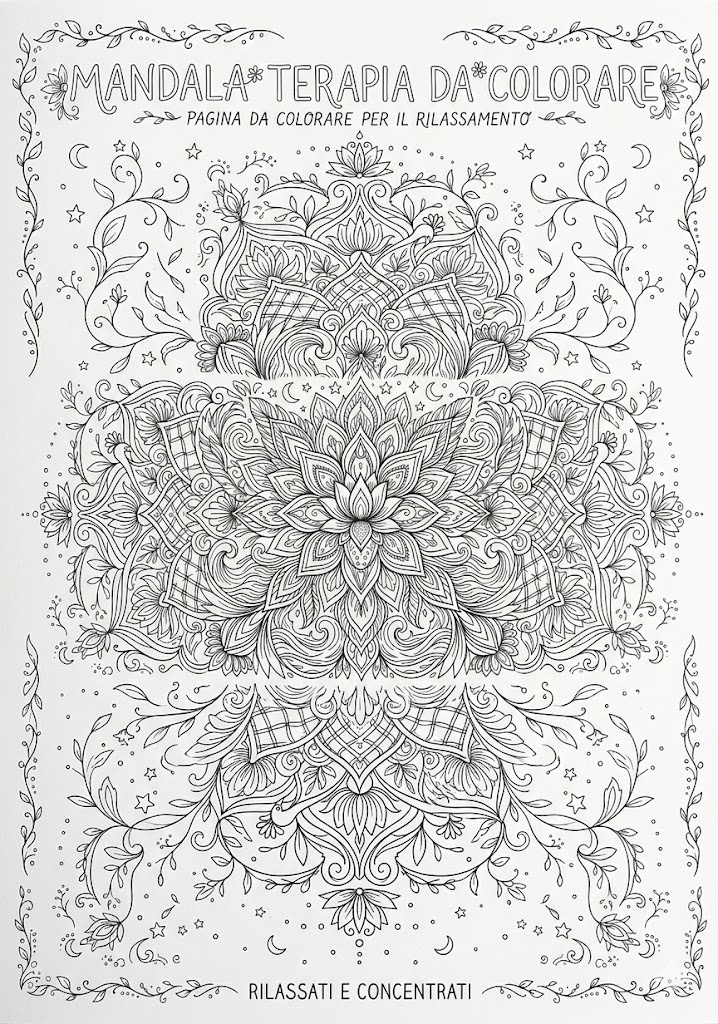
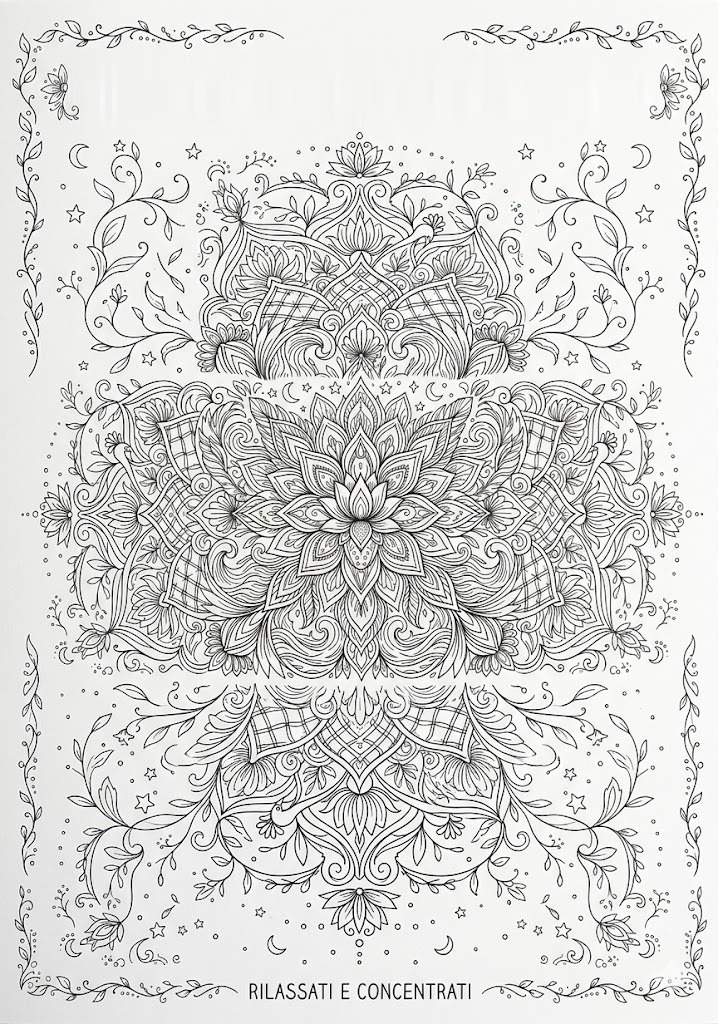
Kit calamità anziani: affermazioni riportate alle fonti, mandala senza «terapia», riservatezza delle carte
Revisione del kit anziani su fonti lette (Cochrane su reminiscenza, stimolazione cognitiva e validazione; NICE CG103 e NG97; NIA; AIFA; DPC; Strategia UE per la preparazione): niente protocolli o terapie dove le prove sono deboli, niente divieti assoluti, classi di farmaci tolte come istruzione, delirium affidato al medico. Immagine del mandala senza la scritta «terapia». Frase sulla riservatezza dei dati nelle carte personali di anziani, neonati, gravidanza e terapie salvavita. Schede RSA 17 e 19 coerenti con le revisioni Cochrane. Data corretta della Strategia UE (26 marzo 2025) e descrizioni dei kit allineate nell'assistente e nella mappa del sito.

Changed region(s): [[0.0919, 0.0625, 0.9192, 0.125]]

diff --git a/static/formazione/kit-calamita-anziani/00-guida-operatori-anziani.html b/static/formazione/kit-calamita-anziani/00-guida-operatori-anziani.html
@@ -3,7 +3,7 @@
 <head>
 <meta charset="utf-8">
 <title>Guida operatori — supporto agli anziani in emergenza — Protezione Civile Genzano</title>
-<meta name="description" content="Guida evidence-based per assistenza agli anziani autonomi e parzialmente autonomi durante e dopo una calamità. Fonti: HelpAge International, WHO mhGAP, Sphere Standards, SIGG, AIP.">
+<meta name="description" content="Guida di orientamento per l'assistenza agli anziani autonomi e parzialmente autonomi durante e dopo una calamità. Non è un protocollo clinico. Riferimenti: HelpAge International, WHO, Sphere, SIGG, AIP.">
 <link rel="stylesheet" href="../kit-calamita-shared/print.css">
 <style>
   .scheda { padding: 12mm 14mm; }
@@ -49,73 +49,74 @@
 
     <p><strong>A chi serve questa guida:</strong> volontari di Protezione Civile, operatori sociali, familiari, vicini di casa, personale comunale che si trovi a interagire con anziani sfollati, evacuati o in difficoltà a seguito di una calamità (terremoto, alluvione, ondata di calore, blackout prolungato, evacuazione preventiva).</p>
 
-    <p>Gli anziani sono una delle categorie più vulnerabili in emergenza, ma <strong>spesso meno visibili dei bambini</strong>: non piangono, non chiedono aiuto, possono apparire "tranquilli" mentre stanno scompensando. Questa guida dà strumenti per riconoscere segnali e agire secondo protocolli evidence-based.</p>
+    <p>Gli anziani sono una delle categorie più vulnerabili in emergenza, ma <strong>spesso meno visibili dei bambini</strong>: possono non chiedere aiuto e apparire "tranquilli" mentre stanno peggiorando. Questa guida dà strumenti per riconoscere i segnali e sapere quando chiamare il 112 o il medico.</p>
 
     <h2>1. Tre rischi specifici degli anziani in emergenza</h2>
     <h3>Rischio sanitario acuto</h3>
     <ul>
-      <li><strong>Interruzione terapie</strong> — molti anziani assumono 5-10 farmaci/giorno. Saltarne uno può scatenare scompenso cardiaco, crisi diabetica, crisi epilettica, sindrome di astinenza da benzodiazepine.</li>
-      <li><strong>Perdita di ausili</strong> — occhiali, apparecchi acustici, dentiera, deambulatore, carrozzina. Senza, l'anziano diventa <em>de facto</em> con disabilità grave.</li>
-      <li><strong>Disidratazione</strong> — la sensazione di sete diminuisce con l'età. In emergenza con caos di accoglienza, gli anziani spesso non bevono abbastanza.</li>
-      <li><strong>Decubiti</strong> — chi ha mobilità ridotta sviluppa lesioni in poche ore se costretto su sedia/branda non adatta.</li>
+      <li><strong>Interruzione terapie</strong> — molti anziani assumono più farmaci ogni giorno. Interrompere o saltare una terapia può avere conseguenze importanti sulla salute: cosa fare lo decide il medico curante, non il volontario.</li>
+      <li><strong>Perdita di ausili</strong> — occhiali, apparecchi acustici, dentiera, deambulatore, carrozzina. Senza, l'autonomia può ridursi molto.</li>
+      <li><strong>Disidratazione</strong> — la sensazione di sete può ridursi con l'età. In emergenza, tra confusione e cambi di abitudini, gli anziani possono non bere abbastanza.</li>
+      <li><strong>Decubiti</strong> — chi ha mobilità ridotta può sviluppare lesioni della pelle se resta a lungo nella stessa posizione su sedia o branda non adatta.</li>
     </ul>
     <h3>Rischio cognitivo</h3>
     <ul>
-      <li><strong>Delirium da stress acuto</strong> — confusione mentale improvvisa innescata dallo shock dell'evento. Si confonde spesso con demenza pre-esistente, ma è <strong>reversibile</strong> se trattato (riposo, idratazione, riorientamento, ambiente calmo).</li>
-      <li><strong>Peggioramento di demenza pre-esistente</strong> — Alzheimer, demenza vascolare, Parkinson. Il cambio di ambiente è uno dei fattori scatenanti più potenti di scompenso.</li>
+      <li><strong>Delirium</strong> — confusione mentale improvvisa, spesso legata a una causa medica (per esempio un'infezione o la disidratazione) o a un cambio improvviso di ambiente. Si confonde con la demenza, ma può <strong>migliorare</strong> se un medico ne individua e cura la causa.</li>
+      <li><strong>Peggioramento di demenza pre-esistente</strong> — Alzheimer, demenza vascolare e altre forme. Un cambio improvviso di luogo, abitudini o persone può aumentare confusione e agitazione.</li>
       <li><strong>Disorientamento</strong> — non sapere dove ci si trova, che giorno è, chi sono le persone intorno.</li>
     </ul>
     <h3>Rischio psicosociale</h3>
     <ul>
-      <li><strong>Trauma del "rifare tutto a 75 anni"</strong> — sentire che non si avrà tempo di ricostruire. Diverso dal trauma giovanile, ha caratteri di lutto anticipato.</li>
+      <li><strong>Trauma del "rifare tutto a 75 anni"</strong> — sentire che non si avrà tempo di ricostruire. Per alcune persone assume i caratteri di un lutto anticipato.</li>
       <li><strong>Isolamento</strong> — perdita rete familiare/vicini/parrocchia che era ancoraggio quotidiano.</li>
-      <li><strong>Vergogna</strong> — bisogno di aiuto per cose intime (bagno, vestirsi). Molti anziani preferiscono soffrire piuttosto che chiedere.</li>
+      <li><strong>Vergogna</strong> — bisogno di aiuto per cose intime (bagno, vestirsi). Molte persone esitano a chiedere aiuto: offrilo con discrezione.</li>
     </ul>
 
     <h2>2. Come avvicinarsi a un anziano in difficoltà</h2>
     <ul>
       <li><strong>Mettiti alla sua altezza</strong> — siediti, non parlare in piedi sopra di lui.</li>
       <li><strong>Presentati con nome, cognome e ruolo</strong> — <em>"Sono Marco Rossi, volontario della Protezione Civile."</em> Le generazioni anziane danno valore al cognome.</li>
-      <li><strong>Dai del Lei</strong> sempre. Anche se l'anziano dà del tu a te. Il rispetto formale è ancoraggio identitario.</li>
+      <li><strong>Dai del Lei</strong>, salvo diversa preferenza espressa dalla persona, anche se l'anziano dà del tu a te. Il rispetto formale è ancoraggio identitario.</li>
       <li><strong>Parla lentamente, voce ferma e calma</strong>, frasi brevi. Ma <strong>non urlare</strong> e non parlare "da bambino": gli anziani con ipoacusia hanno comunque dignità adulta.</li>
-      <li><strong>Tocca solo se autorizzato</strong> — chiedi prima ("Posso prenderle la mano?").</li>
-      <li><strong>Non interrompere</strong> i racconti del passato. Per molti anziani il <em>raccontare</em> è elaborazione (reminiscence therapy, evidence-based).</li>
+      <li><strong>Tocca solo se autorizzato</strong> — chiedi prima ("Posso prenderle la mano?"), salvo pericolo immediato per la persona.</li>
+      <li><strong>Non interrompere</strong> i racconti del passato, se la situazione lo consente. Per molti anziani il <em>raccontare</em> è un modo di elaborare (vedi punto 5).</li>
     </ul>
 
     <h2>3. Segnali di allarme — quando chiedere supporto medico/psicologico</h2>
     <div class="alert-rossa">
       <strong>Chiama il 112 immediatamente se:</strong>
       <ul>
-        <li>Confusione mentale acuta in chi prima era lucido (sospetto delirium o ictus)</li>
+        <li>Perdita di coscienza o difficoltà a respirare</li>
+        <li>Confusione mentale acuta in chi prima era lucido (sospetto delirium, ictus o colpo di calore)</li>
         <li>Mancato riconoscimento di familiari (sospetto delirium / ictus)</li>
-        <li>Difficoltà a deglutire, parlare biascicato, asimmetria del volto (sospetto ictus — protocollo FAST)</li>
+        <li>Bocca storta, braccio debole, difficoltà a parlare o a deglutire (sospetto ictus — segni FAST)</li>
         <li>Dolore toracico (sospetto cardiopatia)</li>
         <li>Caduta con sospetto trauma cranico o frattura</li>
-        <li>Astinenza acuta da benzodiazepine (tremori, ansia estrema, rischio convulsioni)</li>
+        <li>Tremori forti, ansia estrema o convulsioni, anche dopo l'interruzione di una terapia abituale</li>
       </ul>
     </div>
-    <p>Per situazioni meno urgenti ma da non sottovalutare: <strong>contatto con il medico curante</strong>, <strong>ASL Roma 6 servizio anziani</strong>, <strong>Sportello sociale comunale</strong>.</p>
+    <p>Per situazioni meno urgenti ma da non sottovalutare: <strong>contatto con il medico curante</strong>, <strong>servizi socio-sanitari dell'ASL Roma 6</strong>, <strong>servizi sociali del Comune</strong>.</p>
 
-    <h2>4. Distinguere delirium da demenza (importante!)</h2>
+    <h2>4. Delirium e demenza: un cambiamento improvviso va segnalato</h2>
     <table>
-      <tr><th>Caratteristica</th><th>Delirium (acuto, reversibile)</th><th>Demenza (cronica, progressiva)</th></tr>
+      <tr><th>Caratteristica</th><th>Delirium (acuto, spesso reversibile)</th><th>Demenza (cronica, progressiva)</th></tr>
       <tr><td>Esordio</td><td>Ore o giorni (improvviso)</td><td>Mesi o anni (graduale)</td></tr>
       <tr><td>Attenzione</td><td>Compromessa, fluttuante</td><td>Generalmente preservata fino a fasi tardive</td></tr>
       <tr><td>Coscienza</td><td>Alterata (sonnolenza, agitazione)</td><td>Generalmente lucida</td></tr>
-      <tr><td>Decorso</td><td>Fluttuante (peggio di sera, "sundowning")</td><td>Stabile nelle 24 ore</td></tr>
-      <tr><td>Trattamento</td><td>Rimuovere causa, ambiente calmo, idratare</td><td>Stabilizzare, supporto cognitivo</td></tr>
+      <tr><td>Decorso</td><td>Fluttuante nelle 24 ore</td><td>Più stabile nelle 24 ore (può peggiorare verso sera: "sundowning")</td></tr>
+      <tr><td>Cosa fare</td><td>Chiamare il medico o il 112; intanto voce calma, ambiente tranquillo, spiegargli con gentilezza dove si trova e chi lo assiste</td><td>Parlarne con il medico curante; abitudini e ambiente stabili</td></tr>
     </table>
-    <p>Una persona con demenza pre-esistente <strong>può sviluppare delirium sovrapposto</strong> in emergenza. Se il familiare dice "non è più lui da quando è successo X", sospetta delirium.</p>
+    <p>Una persona con demenza pre-esistente <strong>può sviluppare delirium sovrapposto</strong> in emergenza. Se il familiare dice "non è più lui da quando è successo X", un cambiamento recente va segnalato al medico o, se la persona sta male, al 112.</p>
 
-    <h2>5. Reminiscence therapy — perché funziona</h2>
-    <p>La <strong>reminiscence therapy</strong> (Butler, 1963; rivista Cochrane 2018) è un intervento evidence-based per anziani in trauma: chiedere e ascoltare ricordi positivi della vita passata <strong>riduce sintomi depressivi, migliora autostima e funzionalità cognitiva</strong>. Scheda 4 del kit: 5 prompt strutturati.</p>
-    <p>Funziona perché: (1) recupera il <em>sé continuo</em> minacciato dall'evento; (2) attiva memoria a lungo termine ben preservata anche in demenze iniziali; (3) crea connessione con chi ascolta; (4) restituisce dignità ("io sono stato qualcuno").</p>
+    <h2>5. Reminiscenza — ascoltare i ricordi</h2>
+    <p>La <strong>reminiscenza</strong> (il <em>life review</em> è di Butler, 1963) è l'attività di ripercorrere i ricordi della propria vita con qualcuno che ascolta. Nelle persone con demenza una revisione Cochrane (Woods et al., 2018) riporta benefici <strong>spesso piccoli e non costanti</strong> su qualità di vita, cognizione, comunicazione e umore, senza prove di effetti dannosi. Qui è un momento di ascolto, non una cura. Scheda 4 del kit: 5 spunti guidati.</p>
+    <p>Perché può aiutare (spiegazioni plausibili, non dimostrate dagli studi): (1) ritrova il filo della propria storia, interrotto dall'evento; (2) usa ricordi lontani, spesso meglio conservati; (3) crea connessione con chi ascolta; (4) restituisce dignità ("io sono stato qualcuno").</p>
     <p>Domande utili: <em>"Mi racconti del lavoro che faceva?"</em> · <em>"Com'era il giorno del suo matrimonio?"</em> · <em>"Cosa cucinava la sua mamma?"</em> · <em>"Qual è il viaggio più bello che ricorda?"</em></p>
 
-    <h2>6. Comunicare con chi ha demenza — terapia di validazione (Naomi Feil)</h2>
+    <h2>6. Comunicare con chi ha demenza — approccio di validazione (Naomi Feil)</h2>
     <p>Se l'anziano dice cose <em>oggettivamente errate</em> ("devo andare a prendere mio marito alla stazione" ma il marito è morto da anni):</p>
     <ul>
-      <li><strong>NON correggere</strong> — la realtà oggettiva non è quella che vive lui in quel momento. Correggere lo destabilizza.</li>
+      <li><strong>NON correggere</strong> — la realtà oggettiva non è quella che vive lui in quel momento. Correggere può destabilizzarlo (salvo pericolo immediato).</li>
       <li><strong>NON mentire</strong> — non dire "sì sì, va bene".</li>
       <li><strong>VALIDA l'emozione</strong> — <em>"Vuole tanto bene a suo marito vero? Mi racconta com'era?"</em> Sposta dal fatto all'affetto.</li>
       <li><strong>Riorienta dolcemente</strong> nel tempo presente quando possibile, senza forzare.</li>
@@ -125,7 +126,7 @@
     <ul>
       <li><strong>Carta d'identità di emergenza</strong> (scheda 1): da compilare INSIEME all'anziano. Tienila in una tasca interna del soprabito o nel portafogli.</li>
       <li><strong>Diario medicinali</strong> (scheda 2): controllo visivo quotidiano. Se l'anziano vive solo, qualcuno deve verificarlo a distanza (telefonata serale).</li>
-      <li><strong>Calendario orientativo</strong> (scheda 3): scrivi tu la data ogni mattina. È rituale anti-disorientamento.</li>
+      <li><strong>Calendario orientativo</strong> (scheda 3): scrivi tu la data ogni mattina. Può aiutare a ritrovare l'orientamento.</li>
       <li><strong>Ricordi della vita</strong> (scheda 4): non da fare in fretta. Scegli un momento tranquillo, siedi vicino, ascolta senza commentare.</li>
       <li><strong>Carta dei bisogni CAA</strong> (scheda 5): per chi ha difficoltà comunicative gravi. Mostra la carta, lasciagli indicare.</li>
       <li><strong>Mandala / cruciverba / sudoku</strong> (schede 7-9): stimolazione cognitiva dolce. Mai presentati come "test" o "compito": <em>"Ho qui un mandala carino, le piace l'idea di colorarlo insieme?"</em></li>
@@ -135,7 +136,7 @@
 
   <footer class="scheda-footer">
     <span>Kit Calamità Anziani — Guida operatori</span>
-    <span class="fonti">Fonti: <strong>HelpAge International</strong> Older People in Emergencies · <strong>WHO mhGAP</strong> Intervention Guide for Mental Health in Humanitarian Settings · <strong>Sphere Standards 2018</strong> § Older People · <strong>SIGG</strong> Società Italiana di Gerontologia e Geriatria · <strong>AIP</strong> Associazione Italiana Psicogeriatria · <strong>Butler RN (1963)</strong> The Life Review · <strong>Feil N</strong> The Validation Breakthrough · <strong>Cochrane Review 2018</strong> Reminiscence therapy for dementia · <strong>DPC</strong> linee guida vulnerabili.</span>
+    <span class="fonti">Riferimenti: <strong>HelpAge International</strong> Older People in Emergencies · <strong>WHO/UNHCR</strong> mhGAP Humanitarian Intervention Guide (2015) · <strong>Sphere Handbook 2018</strong> · <strong>SIGG</strong> Società Italiana di Gerontologia e Geriatria · <strong>AIP</strong> Associazione Italiana di Psicogeriatria · <strong>NICE</strong> CG103 (delirium) · <strong>NIA</strong> (National Institute on Aging) agitazione, aggressività e sundowning nell'Alzheimer · <strong>AIFA</strong> «E…state in salute» · <strong>Woods et al., Cochrane 2018</strong> Reminiscence therapy for dementia · <strong>Butler RN (1963)</strong> The Life Review · <strong>Feil N</strong> The Validation Breakthrough (approccio comunicativo: la revisione Cochrane del 2003 di Neal e Barton Wright non trova prove sufficienti di efficacia) · <strong>DPC</strong> indicazioni per l'assistenza alla popolazione. Guida di orientamento, non protocollo clinico: contenuti sanitari da validare con il referente sanitario; per farmaci e terapie, medico di famiglia o farmacista.</span>
     <span>www.protezionecivilegenzano.it</span>
   </footer>
 </article>

diff --git a/static/formazione/kit-calamita-anziani/02-diario-medicinali.html b/static/formazione/kit-calamita-anziani/02-diario-medicinali.html
@@ -23,11 +23,11 @@
     <span class="kit-tag">Anziani · Salute</span>
   </header>
   <h1 class="scheda-title">Diario settimanale dei medicinali</h1>
-  <span class="scheda-eta">Per non saltare nessuna terapia anche in giorni difficili</span>
-  <div class="scheda-istruzione">💊 <strong>Spunta ogni casella</strong> appena prendi il farmaco. Se vivi solo, qualcuno ti chiama la sera per controllare con te.</div>
+  <span class="scheda-eta">Per ricordare le terapie anche in giorni difficili</span>
+  <div class="scheda-istruzione">💊 <strong>Spunta ogni casella</strong> appena prendi il farmaco. Se vivi solo, chiedi a un familiare o a un vicino di chiamarti la sera per controllare con te.</div>
   <section class="scheda-attivita">
     <p style="margin: 0;"><strong>Settimana dal:</strong> ___________ <strong>al:</strong> ___________</p>
-    <p style="margin: 0 0 3mm;"><strong>Farmaci da prendere</strong> (scrivi nomi sotto le X):</p>
+    <p style="margin: 0 0 3mm;"><strong>Farmaci da prendere</strong> (caselle 1, 2, 3 di ogni fascia): 1 ___________ 2 ___________ 3 ___________</p>
     <table class="med">
       <thead>
         <tr><th>GIORNO</th><th>MATTINA</th><th>PRANZO</th><th>SERA</th><th>NOTE / SINTOMI</th></tr>
@@ -42,7 +42,7 @@
         <tr><td>DOMENICA</td><td><div class="check-box"><span></span><span></span><span></span></div></td><td><div class="check-box"><span></span><span></span><span></span></div></td><td><div class="check-box"><span></span><span></span><span></span></div></td><td></td></tr>
       </tbody>
     </table>
-    <p style="font-size: 10pt; color: #c1121f; font-weight: 700; margin-top: 4mm;">⚠ NON sospendere mai farmaci di cuore, pressione, anticoagulanti, antiparkinson, benzodiazepine senza parlare col medico — anche in emergenza.</p>
+    <p style="font-size: 10pt; color: #c1121f; font-weight: 700; margin-top: 4mm;">⚠ Non interrompere né cambiare le terapie da soli, nemmeno in emergenza: se un farmaco manca o non puoi prenderlo, chiedi al medico di famiglia o al farmacista; se stai male, chiama il 112.</p>
   </section>
-  <footer class="scheda-footer"><span>Anziani Scheda 2 — Diario medicinali</span><span class="fonti">L'interruzione della terapia abituale è una causa nota di scompenso negli anziani in politerapia (SIGG — Società Italiana di Gerontologia e Geriatria): da qui l'importanza di un diario aggiornato dei medicinali.</span><span>www.protezionecivilegenzano.it</span></footer>
+  <footer class="scheda-footer"><span>Anziani Scheda 2 — Diario medicinali</span><span class="fonti">Un diario aggiornato dei medicinali aiuta a non dimenticare le terapie abituali e a darne un quadro chiaro a chi soccorre. Da verificare con il medico di famiglia o il farmacista; scheda da validare con il referente sanitario.</span><span>www.protezionecivilegenzano.it</span></footer>
 </article></body></html>

diff --git a/static/formazione/kit-calamita-anziani/04-ricordi-vita.html b/static/formazione/kit-calamita-anziani/04-ricordi-vita.html
@@ -2,7 +2,7 @@
 <html lang="it">
 <head>
 <meta charset="utf-8">
-<title>Scheda 4 — Ricordi della mia vita (reminiscence therapy)</title>
+<title>Scheda 4 — Ricordi della mia vita (reminiscenza)</title>
 <link rel="stylesheet" href="../kit-calamita-shared/print.css">
 <style>
   .scheda { font-size: 13pt; }
@@ -24,11 +24,11 @@
   <header class="scheda-header">
     <svg class="logo" viewBox="0 0 100 100" aria-hidden="true"><rect x="2" y="2" width="96" height="96" fill="none" stroke="#003366" stroke-width="3"/><text x="50" y="58" text-anchor="middle" font-size="32" font-weight="700" fill="#003366">PC</text></svg>
     <div class="brand">Protezione Civile<small>Gruppo Comunale Volontari — Genzano di Roma</small></div>
-    <span class="kit-tag">Anziani · Reminiscence Therapy</span>
+    <span class="kit-tag">Anziani · Reminiscenza</span>
   </header>
   <h1 class="scheda-title">Ricordi della mia vita</h1>
-  <span class="scheda-eta">Reminiscence therapy — racconto di sé</span>
-  <div class="scheda-istruzione">💭 <strong>Scrivi o detta a chi ti assiste</strong>. Raccontare ricordi positivi della propria vita è una <strong>terapia validata</strong> (Cochrane 2018) per stare meglio in momenti difficili.</div>
+  <span class="scheda-eta">Reminiscenza — racconto di sé</span>
+  <div class="scheda-istruzione">💭 <strong>Scrivi o detta a chi ti assiste</strong>. Raccontare ricordi piacevoli della propria vita può <strong>aiutare l'umore</strong> e fare compagnia nei momenti difficili. Non è un compito: scrivi solo ciò che vuoi.</div>
   <section class="scheda-attivita">
     <div class="prompt">
       <div class="prompt-titolo">1. UN RICORDO DELLA MIA INFANZIA</div>
@@ -56,5 +56,5 @@
       <div class="righe"><div></div><div></div></div>
     </div>
   </section>
-  <footer class="scheda-footer"><span>Anziani Scheda 4 — Reminiscence</span><span class="fonti">Butler RN (1963) The Life Review · Cochrane Review 2018: reminiscence therapy riduce sintomi depressivi e migliora qualità di vita negli anziani in trauma + demenza iniziale.</span><span>www.protezionecivilegenzano.it</span></footer>
+  <footer class="scheda-footer"><span>Anziani Scheda 4 — Reminiscence</span><span class="fonti">Butler RN (1963) The Life Review · Woods et al., Cochrane 2018 (Reminiscence therapy for dementia): nelle persone con demenza benefici spesso piccoli e non costanti su qualità di vita, cognizione, comunicazione e umore. NICE NG97 (raccomandazione 1.4.3): reminiscenza di gruppo da considerare nella demenza lieve-moderata. Scheda da validare con il referente sanitario.</span><span>www.protezionecivilegenzano.it</span></footer>
 </article></body></html>

diff --git a/static/formazione/kit-calamita-anziani/07-mandala-adulti.html b/static/formazione/kit-calamita-anziani/07-mandala-adulti.html
@@ -2,7 +2,7 @@
 <html lang="it">
 <head>
 <meta charset="utf-8">
-<title>Scheda 7 — Mandala terapia da colorare (anziani)</title>
+<title>Scheda 7 — Mandala da colorare (anziani)</title>
 <link rel="stylesheet" href="../kit-calamita-shared/print.css">
 </head>
 <body>
@@ -14,15 +14,15 @@
     <div class="brand">Protezione Civile<small>Gruppo Comunale Volontari — Genzano di Roma</small></div>
     <span class="kit-tag">Anziani · Rilassamento</span>
   </header>
-  <h1 class="scheda-title">Mandala terapia per il rilassamento</h1>
+  <h1 class="scheda-title">Mandala per il rilassamento</h1>
   <span class="scheda-eta">Adulti / anziani — esercizio motricità fine + concentrazione</span>
-  <div class="scheda-istruzione">🌸 <strong>Colora il mandala</strong> con calma. La ripetitività dei motivi rilassa la mente. Concediti tempo, non c'è fretta.</div>
+  <div class="scheda-istruzione">🌸 <strong>Colora il mandala</strong> con calma. La ripetitività dei motivi può aiutare a rilassarsi. Concediti tempo, non c'è fretta.</div>
   <section class="scheda-attivita" style="justify-content: center;">
-    <img src="img/mandala-adulto.jpg" alt="Mandala terapia da colorare per adulti, motivo simmetrico complesso con fiori di loto centrali, foglie e arabeschi decorativi nei pannelli laterali. In basso la scritta 'Rilassati e concentrati'" style="width: 100%; max-width: 100%; max-height: 230mm; object-fit: contain; border: 1.5px solid #1a1a1a; border-radius: 4px;">
+    <img src="img/mandala-adulto.jpg" alt="Mandala da colorare per adulti, motivo simmetrico complesso con fiori di loto centrali, foglie e arabeschi decorativi nei pannelli laterali. In basso la scritta 'Rilassati e concentrati'" style="width: 100%; max-width: 100%; max-height: 230mm; object-fit: contain; border: 1.5px solid #1a1a1a; border-radius: 4px;">
   </section>
   <footer class="scheda-footer">
-    <span>Anziani Scheda 7 — Mandala terapia</span>
-    <span class="fonti">Mandala therapy: ripetitività + simmetria stimolano rilassamento (riduzione cortisolo). Validato in psicogeriatria. Esercizio insieme di motricità fine e concentrazione.</span>
+    <span>Anziani Scheda 7 — Mandala</span>
+    <span class="fonti">Colorare un mandala è un'attività tranquilla di motricità fine e concentrazione, non una cura. Le prove su ansia e sintomi depressivi negli over 55 sono preliminari (Liu et al., Front Psychol 2026: certezza molto bassa).</span>
     <span>www.protezionecivilegenzano.it</span>
   </footer>
 </article>

diff --git a/static/formazione/kit-calamita-anziani/10-lettera-nipoti.html b/static/formazione/kit-calamita-anziani/10-lettera-nipoti.html
@@ -21,10 +21,10 @@
   <header class="scheda-header">
     <svg class="logo" viewBox="0 0 100 100" aria-hidden="true"><rect x="2" y="2" width="96" height="96" fill="none" stroke="#003366" stroke-width="3"/><text x="50" y="58" text-anchor="middle" font-size="32" font-weight="700" fill="#003366">PC</text></svg>
     <div class="brand">Protezione Civile<small>Gruppo Comunale Volontari — Genzano di Roma</small></div>
-    <span class="kit-tag">Anziani · Lascito</span>
+    <span class="kit-tag">Anziani · Affetti</span>
   </header>
   <h1 class="scheda-title">Lettera ai miei nipoti</h1>
-  <span class="scheda-eta">Lascito narrativo — affettivo</span>
+  <span class="scheda-eta">Un messaggio per i propri cari</span>
   <div class="scheda-istruzione">✉ <strong>Scrivi una lettera</strong> ai tuoi nipoti (anche solo immaginari, anche piccoli che non capiscono ancora). Quello che vuoi dire loro. Quello che ricordi e vorresti che ricordassero anche loro. Se non scrivi, detta a chi ti assiste.</div>
   <section class="scheda-attivita">
     <div class="lettera-formale">
@@ -37,5 +37,5 @@
     </div>
     <p style="font-size: 11pt; color: #666; margin-top: 4mm;">💡 <strong>Suggerimenti</strong>: cosa vorresti che sapessero di te? Un ricordo della tua infanzia, un consiglio per la loro vita, una cosa di cui sei orgoglioso, un valore che ti ha guidato.</p>
   </section>
-  <footer class="scheda-footer"><span>Anziani Scheda 10 — Lettera ai nipoti</span><span class="fonti">Generatività di Erikson: in età avanzata il bisogno di trasmettere a chi viene dopo è centrale. Lettera = strumento concreto di lascito narrativo.</span><span>www.protezionecivilegenzano.it</span></footer>
+  <footer class="scheda-footer"><span>Anziani Scheda 10 — Lettera ai nipoti</span><span class="fonti">Nella teoria di Erikson l'età avanzata è il tempo del bilancio della propria vita (integrità dell'io); il desiderio di trasmettere qualcosa alle generazioni successive è il tema dell'età adulta. La lettera è un modo concreto di raccontarsi ai propri cari, senza finalità terapeutiche.</span><span>www.protezionecivilegenzano.it</span></footer>
 </article></body></html>

diff --git a/themes/flavour-pcgenzano/layouts/assistente/list.html b/themes/flavour-pcgenzano/layouts/assistente/list.html
@@ -737,19 +737,19 @@
     kc_anziani: {
       kind: 'answer',
       title: 'Anziani in casa',
-      body: ['Standard HelpAge International + WHO mhGAP + SIGG/AIP. Carta identità, calendario orientativo, reminiscence, CAA pittogrammi.'],
+      body: ['Riferimenti HelpAge International e WHO. Carta identità, calendario orientativo, ricordi di vita, carta dei bisogni con simboli.'],
       links: [{ text: 'Apri il kit', url: '/formazione/kit-calamita-anziani/' }]
     },
     kc_caregiver: {
       kind: 'answer',
       title: 'Caregiver familiari',
-      body: ['Standard L. 205/2017 (riconoscimento caregiver in Italia) + Carta europea Eurocarers 2014 + WHO Self-care 2022. Doppio carico, persona allettata, cura di sé stesso.'],
+      body: ['Riferimenti L. 205/2017 (definizione di caregiver familiare) + Carta europea del caregiver (Eurocarers) + WHO Self-care 2022. Doppio carico, persona allettata, cura di sé stesso.'],
       links: [{ text: 'Apri il kit', url: '/formazione/kit-calamita-caregiver-familiari/' }]
     },
     kc_rsa: {
       kind: 'answer',
       title: 'Strutture sanitarie / RSA',
-      body: ['Standard Min. Salute + AGENAS + WHO Hospital Safety Index. Lezioni Centro Italia 2016 + Covid-RSA. Triage SALT geriatrico, comfort BPSD.'],
+      body: ['Riferimenti D.Lgs. 81/2008 + regola tecnica antincendio per le strutture sanitarie + WHO Hospital Safety Index. Lezioni Centro Italia 2016 + Covid-RSA. Triage ispirato al metodo SALT, comfort sensoriale.'],
       links: [{ text: 'Apri il kit', url: '/formazione/kit-calamita-strutture-sanitarie/' }]
     },
     kc_disabilita: {
@@ -785,7 +785,7 @@
     kc_animali: {
       kind: 'answer',
       title: 'Animali domestici in evacuazione',
-      body: ['Standard D.Lgs. 1/2018 art. 12 + L. 281/1991 + WSAVA Disaster Response Guidelines. Lezione storica: uragano Katrina 2005 / US PETS Act 2006.'],
+      body: ['Riferimenti D.Lgs. 1/2018 art. 1 + L. 281/1991 + WSAVA Disaster Response Guidelines. Lezione storica: uragano Katrina 2005 / US PETS Act 2006.'],
       links: [{ text: 'Apri il kit', url: '/formazione/kit-calamita-animali/' }]
     },
     kc_volontari: {

diff --git a/static/formazione/kit-calamita-anziani/01-carta-identita-emergenza.html b/static/formazione/kit-calamita-anziani/01-carta-identita-emergenza.html
@@ -19,7 +19,7 @@
 <span class="kit-tag">Anziani · Documento</span>
 </header>
 <h1 class="scheda-title">Carta d'identità di emergenza</h1>
-<div class="scheda-istruzione">📋 In emergenza, chi soccorre deve sapere subito chi sei, cosa prendi, chi chiamare. Compila tutto INSIEME a familiare o operatore e tieni questa carta sempre con te (portafogli, tasca interna, copia in casa accanto agli ingressi).</div>
+<div class="scheda-istruzione">📋 In emergenza, chi soccorre deve sapere subito chi sei, cosa prendi, chi chiamare. Compila tutto INSIEME a familiare o operatore e tieni questa carta sempre con te (portafogli, tasca interna, copia in casa accanto agli ingressi). I dati restano a te e a chi scegli tu: mostrali solo a chi ti soccorre o ti assiste.</div>
 <section class="scheda-attivita carta-id-corpo">
 
 <div class="carta-id-sez">
@@ -54,7 +54,7 @@
 </div>
 
 <div class="carta-id-sez">
-<h2>💊 Terapie in corso (NON SOSPENDERE!)</h2>
+<h2>💊 Terapie in corso (non cambiarle senza il medico)</h2>
 <div class="carta-id-coppia">
   <div class="carta-id-campo"><label>Farmaco 1</label><span class="riga"></span></div>
   <div class="carta-id-campo"><label>Dose / orario</label><span class="riga"></span></div>
@@ -88,7 +88,7 @@
 </div>
 
 </section>
-<footer class="scheda-footer"><span>Anziani Scheda 1 — Carta identità emergenza</span><span class="fonti">In emergenza il primo gesto è cercare la carta. Standard ICE (In Case of Emergency) + linee guida HelpAge International.</span><span>www.protezionecivilegenzano.it</span></footer>
+<footer class="scheda-footer"><span>Anziani Scheda 1 — Carta identità emergenza</span><span class="fonti">In emergenza: prima il 112. Pratica ICE (In Case of Emergency); HelpAge International. Terapie e dosi: da verificare col medico di famiglia o il farmacista; da validare col referente sanitario.</span><span>www.protezionecivilegenzano.it</span></footer>
 </article>
 </body>
 </html>

diff --git a/static/formazione/kit-calamita-anziani/11-borsa-emergenza-72h.html b/static/formazione/kit-calamita-anziani/11-borsa-emergenza-72h.html
@@ -11,8 +11,8 @@
 <div class="col">
 <h2>💊 Farmaci e salute</h2>
 <ul class="elenco-pratico">
-<li>Farmaci abituali per almeno 3 giorni</li>
-<li>Lista dei farmaci con i dosaggi (vedi Scheda 2 — Diario medicinali)</li>
+<li>Farmaci indispensabili per alcuni giorni, secondo indicazione del medico</li>
+<li>Lista dei farmaci con i dosaggi (vedi Schede 1 e 2)</li>
 <li>Allergie e intolleranze scritte su un foglio</li>
 <li>Occhiali di riserva</li>
 <li>Apparecchio acustico di riserva o pile di scorta</li>
@@ -34,7 +34,7 @@
 <h2>🎒 Nella borsa</h2>
 <ul class="elenco-pratico">
 <li>Acqua in bottigliette</li>
-<li>Alimenti semplici a lunga conservazione (fette biscottate, crackers, biscotti)</li>
+<li>Alimenti semplici a lunga conservazione, adatti alla tua dieta (fette biscottate, crackers, biscotti)</li>
 <li>Torcia elettrica con pile di scorta</li>
 <li>Radio a pile (per ascoltare le comunicazioni ufficiali)</li>
 <li>Caricabatterie del telefono</li>
@@ -52,5 +52,5 @@
 </div>
 </div>
 </section>
-<footer class="scheda-footer"><span>Anziani Scheda 11 — Borsa emergenza 72h</span><span class="fonti">Riferimenti: Sphere Handbook 2018 · IFRC · HelpAge International — Older People in Emergencies. Non sostituisce indicazioni mediche o assistenziali.</span><span>www.protezionecivilegenzano.it</span></footer>
+<footer class="scheda-footer"><span>Anziani Scheda 11 — Borsa emergenza 72h</span><span class="fonti">Riferimenti: DPC «Io non rischio» · Commissione europea, Strategia dell'Unione per la preparazione (2025: scorte essenziali per almeno 72 ore) · Sphere Handbook 2018 · IFRC · HelpAge International — Older People in Emergencies. Non sostituisce indicazioni mediche o assistenziali. Farmaci e scorte: da verificare con il medico di famiglia o il farmacista; scheda da validare con il referente sanitario.</span><span>www.protezionecivilegenzano.it</span></footer>
 </article></body></html>

diff --git a/static/formazione/kit-calamita-anziani/05-bisogni-caa.html b/static/formazione/kit-calamita-anziani/05-bisogni-caa.html
@@ -2,7 +2,7 @@
 <html lang="it">
 <head>
 <meta charset="utf-8">
-<title>Scheda 5 — Carta dei bisogni con pittogrammi (anziani con difficoltà comunicative)</title>
+<title>Scheda 5 — Carta dei bisogni con simboli (anziani con difficoltà comunicative)</title>
 <link rel="stylesheet" href="../kit-calamita-shared/print.css">
 <style>
   .grid-caa { display: grid; grid-template-columns: repeat(2, 1fr); gap: 5mm; }
@@ -26,7 +26,7 @@
   </header>
   <h1 class="scheda-title">Carta dei bisogni</h1>
   <span class="scheda-eta">Per anziani con afasia, ipoacusia grave, difficoltà a parlare</span>
-  <div class="scheda-istruzione">👉 <strong>Indica con il dito</strong> ciò di cui hai bisogno. Chi ti assiste capirà subito.</div>
+  <div class="scheda-istruzione">👉 <strong>Indica con il dito</strong> ciò di cui hai bisogno. Chi ti assiste potrà capirti più facilmente.</div>
   <section class="scheda-attivita">
     <div class="grid-caa">
       <div class="caa-cell"><div class="caa-img">🥖</div><div class="caa-text">HO FAME</div></div>
@@ -43,5 +43,5 @@
       <div class="caa-cell"><div class="caa-img">🆘</div><div class="caa-text">CHIAMA UN MEDICO</div></div>
     </div>
   </section>
-  <footer class="scheda-footer"><span>Anziani Scheda 5 — CAA bisogni</span><span class="fonti">Comunicazione Aumentativa Alternativa: standard internazionale per anziani con afasia post-ictus, demenza avanzata, ipoacusia grave. Anche per L2.</span><span>www.protezionecivilegenzano.it</span></footer>
+  <footer class="scheda-footer"><span>Anziani Scheda 5 — CAA bisogni</span><span class="fonti">Comunicazione Aumentativa Alternativa: simboli e gesti per comunicare quando parlare è difficile. Anche per L2. Se la persona sta male, chiama il 112. Da validare con il referente sanitario.</span><span>www.protezionecivilegenzano.it</span></footer>
 </article></body></html>

diff --git a/static/formazione/kit-calamita-anziani/03-calendario-orientativo.html b/static/formazione/kit-calamita-anziani/03-calendario-orientativo.html
@@ -27,8 +27,8 @@
     <span class="kit-tag">Anziani · Orientamento</span>
   </header>
   <h1 class="scheda-title">Calendario orientativo</h1>
-  <span class="scheda-eta">Anti-disorientamento, utile in Alzheimer iniziale o delirium</span>
-  <div class="scheda-istruzione">📅 <strong>Familiare/operatore</strong>: scrivi tu la data ogni mattina. Lascia la scheda visibile sul comodino. Aiuta a capire dove ci si trova e con chi.</div>
+  <span class="scheda-eta">Per ritrovare giorno, luogo e persone se ci si sente disorientati</span>
+  <div class="scheda-istruzione">📅 <strong>Familiare/operatore</strong>: scrivi tu la data ogni mattina. Lascia la scheda visibile sul comodino. Può aiutare a capire dove ci si trova e con chi.</div>
   <section class="scheda-attivita">
     <div class="data-grande">OGGI È</div>
     <div class="info">
@@ -42,5 +42,5 @@
       <div class="info-row"><strong>Prossimo pasto:</strong><span></span></div>
     </div>
   </section>
-  <footer class="scheda-footer"><span>Anziani Scheda 3 — Calendario orientativo</span><span class="fonti">Reality Orientation Therapy (Folsom 1968): tecnica evidence-based per il disorientamento spazio-temporale negli anziani, riconosciuta dalla letteratura geriatrica (Cochrane review sulla stimolazione cognitiva nella demenza, Woods et al., aggiornamento 2023).</span><span>www.protezionecivilegenzano.it</span></footer>
+  <footer class="scheda-footer"><span>Anziani Scheda 3 — Calendario orientativo</span><span class="fonti">Orientamento alla realtà (Folsom, 1968). NICE CG103: orologio e calendario visibili tra le misure di prevenzione del delirium in ospedale e RSA. Cochrane 2023 (Woods et al.), stimolazione cognitiva nella demenza: benefici piccoli. Da validare col referente sanitario.</span><span>www.protezionecivilegenzano.it</span></footer>
 </article></body></html>

diff --git a/static/formazione/kit-calamita-anziani/06-rete-supporto.html b/static/formazione/kit-calamita-anziani/06-rete-supporto.html
@@ -44,9 +44,9 @@
     </div>
     <div class="gruppo">
       <h2>🏛 ISTITUZIONI</h2>
-      <div class="contatto"><div><strong>NUE Numero Unico</strong><span style="font-size: 22pt; color: var(--pc-blue); font-weight: 700;">112</span></div><div><strong>Sportello sociale Comune Genzano</strong><span></span></div></div>
-      <div class="contatto"><div><strong>ASL Roma 6 — Servizi anziani</strong><span></span></div><div><strong>Sala Operativa PC Lazio</strong><span style="font-size: 16pt; font-weight: 700;">803 555</span></div></div>
+      <div class="contatto"><div><strong>NUE Numero Unico — emergenze</strong><span style="font-size: 22pt; color: var(--pc-blue); font-weight: 700;">112</span></div><div><strong>Servizi sociali Comune di Genzano</strong><span></span></div></div>
+      <div class="contatto"><div><strong>ASL Roma 6 — Servizi anziani</strong><span></span></div><div><strong>Sala Operativa PC Lazio (non urgenti)</strong><span style="font-size: 16pt; font-weight: 700;">803 555</span></div></div>
     </div>
   </section>
-  <footer class="scheda-footer"><span>Anziani Scheda 6 — Rete supporto</span><span class="fonti">Mappatura della rete sociale: standard del Comune di Genzano per la fragilità + protocollo Caritas/parrocchia.</span><span>www.protezionecivilegenzano.it</span></footer>
+  <footer class="scheda-footer"><span>Anziani Scheda 6 — Rete supporto</span><span class="fonti">Schema di mappatura della rete di prossimità (famiglia, vicinato, comunità, servizi), ispirato a buone pratiche per le persone anziane. I recapiti dei servizi vanno chiesti direttamente agli enti.</span><span>www.protezionecivilegenzano.it</span></footer>
 </article></body></html>

diff --git a/static/formazione/kit-calamita-strutture-sanitarie/19-reminiscence-box.html b/static/formazione/kit-calamita-strutture-sanitarie/19-reminiscence-box.html
@@ -4,7 +4,7 @@
 </head><body><button class="btn-stampa no-print" onclick="window.print()">🖨 Stampa A4</button><a class="btn-indice no-print" href="./">← Indice</a>
 <article class="scheda"><header class="scheda-header"><svg class="logo" viewBox="0 0 100 100" aria-hidden="true"><rect x="2" y="2" width="96" height="96" fill="none" stroke="#003366" stroke-width="3"/><text x="50" y="58" text-anchor="middle" font-size="32" font-weight="700" fill="#003366">PC</text></svg><div class="brand">Protezione Civile<small>Gruppo Comunale Volontari — Genzano di Roma</small></div><span class="kit-tag">RSA · Demenza grave</span></header>
 <h1 class="scheda-title">La scatola dei ricordi (reminiscence box)</h1><span class="scheda-eta">Strumento per familiari + operatori — anziani con demenza media-grave</span>
-<div class="scheda-istruzione">📦 <strong>Una scatola di scarpe</strong> con dentro 8-12 oggetti che evocano la vita del tuo caro. Strumento evidence-based per stimolare reminiscence, ridurre agitazione, mantenere identità.</div>
+<div class="scheda-istruzione">📦 <strong>Una scatola di scarpe</strong> con dentro 8-12 oggetti che evocano la vita del tuo caro. Aiuta a ricordare e a sentirsi riconosciuti; i benefici documentati sono piccoli e variabili.</div>
 <section class="scheda-attivita">
 <h2>🛠 COME COSTRUIRLA (per familiari)</h2>
 <ol>
